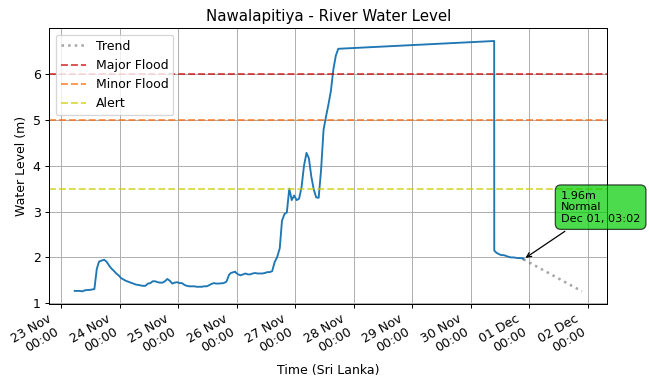
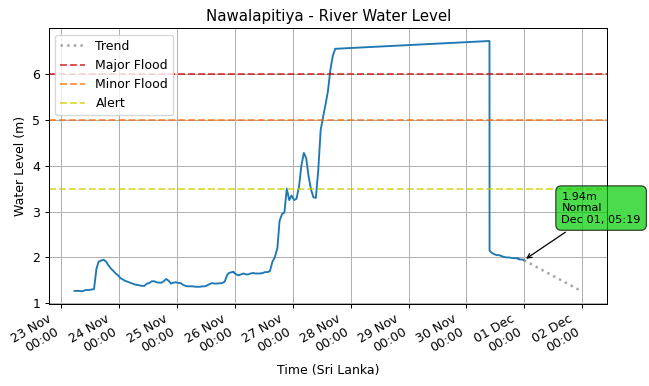
🤖 [update_latest.yml] 2025-12-01-0004

diff --git a/README.md b/README.md
@@ -1,11 +1,11 @@
 # lk_irrigation 🇱🇰
 
 ![Status: Live](https://img.shields.io/badge/status-live-brightgreen)
-![LastUpdated](https://img.shields.io/badge/last_updated-2025--12--01_05:16:52-green)
+![LastUpdated](https://img.shields.io/badge/last_updated-2025--12--01_05:19:10-green)
 
 Realtime Data about *River Water Levels* in Sri Lanka, from the [Irrigation Deptartment](https://www.irrigation.gov.lk)'s [Hydrology and Disaster Management](https://www.irrigation.gov.lk/web/index.php?option=com_content&view=article&id=27&Itemid=128&lang=en) Division.
 
-- [Complete Dataset](data/rwlds) with **6,400 measurements** from **39** stations.
+- [Complete Dataset](data/rwlds) with **6,402 measurements** from **39** stations.
 - [Scrape and load logic](src/lk_irrigation/rwld/RiverWaterLevelDataLoadMixin.py)
 - [Original Data source](https://www.arcgis.com/apps/dashboards/2cffe83c9ff5497d97375498bdf3ff38)
 
@@ -19,6 +19,8 @@ Realtime Data about *River Water Levels* in Sri Lanka, from the [Irrigation Dept
 
 | Measured At | Station (River Basin) | Level (m) | Alert Level | Rate-of-Rise (m/hr) | Rising Alert |
 | --- | --- | ---: | --- | ---: | --- |
+| 2025-12-01 05:19:10 | Nawalapitiya (Mahaweli Ganga) | 1.94 | 🟢 Normal | -1.636 |  |
+| 2025-12-01 05:18:48 | Nawalapitiya (Mahaweli Ganga) | 1.95 | 🟢 Normal | -1.636 |  |
 | 2025-12-01 05:16:52 | Panadugama (Nilwala Ganga) | 3.48 | 🟢 Normal | -0.008 |  |
 | 2025-12-01 05:11:53 | Baddegama (Gin Ganga) | 2.21 | 🟢 Normal | -0.018 |  |
 | 2025-12-01 05:10:29 | Holombuwa (Kelani Ganga) | 1.40 | 🟢 Normal | 0.000 |  |
@@ -44,8 +46,6 @@ Realtime Data about *River Water Levels* in Sri Lanka, from the [Irrigation Dept
 | 2025-12-01 05:00:35 | Siyambalanduwa (Heda Oya) | 1.23 | 🟢 Normal | -0.017 |  |
 | 2025-12-01 05:00:24 | Wellawaya (Kirindi Oya) | 1.25 | 🟢 Normal | 0.020 | 🔺 Rising |
 | 2025-12-01 05:00:09 | Horowpothana (Yan Oya) | 7.31 | 🟡 Alert | -0.032 |  |
-| 2025-12-01 04:24:56 | Siyambalanduwa (Heda Oya) | 1.24 | 🟢 Normal | -0.017 |  |
-| 2025-12-01 04:23:44 | Norwood (Kelani Ganga) | 1.43 | 🟢 Normal | -0.200 |  |
 
 ## Latest by Station
 
@@ -89,7 +89,7 @@ Realtime Data about *River Water Levels* in Sri Lanka, from the [Irrigation Dept
 | 2025-12-01 04:07:44 | Badalgama (Maha Oya) | 4.69 | 🟢 Normal | -0.097 |  |
 | 2025-12-01 05:02:48 | Norwood (Kelani Ganga) | 1.30 | 🟢 Normal | -0.200 |  |
 | 2025-12-01 05:08:04 | Glencourse (Kelani Ganga) | 13.75 | 🟢 Normal | -0.216 |  |
-| 2025-12-01 03:02:10 | Nawalapitiya (Mahaweli Ganga) | 1.96 | 🟢 Normal | -1.565 |  |
+| 2025-12-01 05:19:10 | Nawalapitiya (Mahaweli Ganga) | 1.94 | 🟢 Normal | -1.636 |  |
 | 2025-12-01 03:50:28 | Giriulla (Maha Oya) | 3.54 | 🟢 Normal | -10.588 |  |
 | 2025-12-01 04:05:34 | Magura (Kalu Ganga) | 2.25 | 🟢 Normal | -36.000 |  |
 
